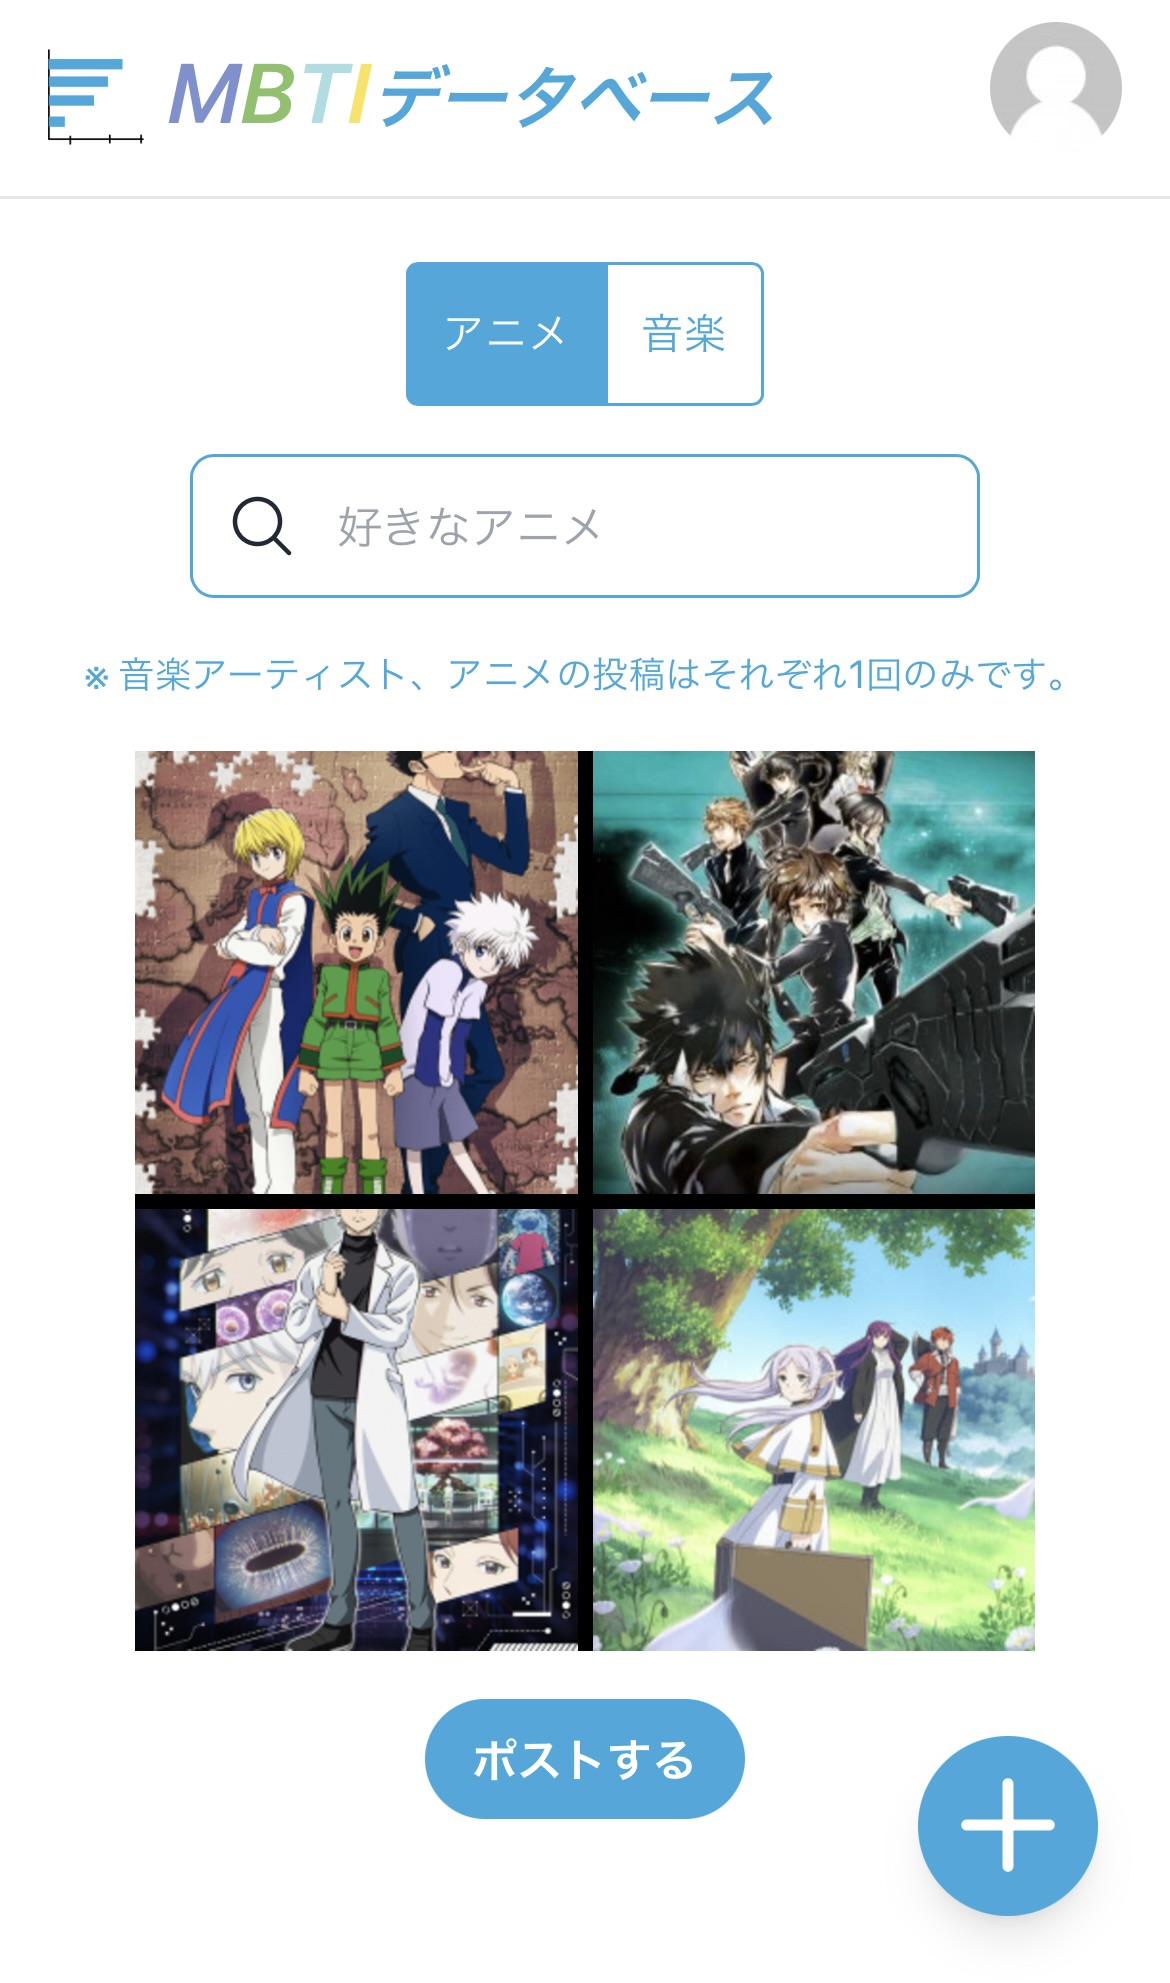
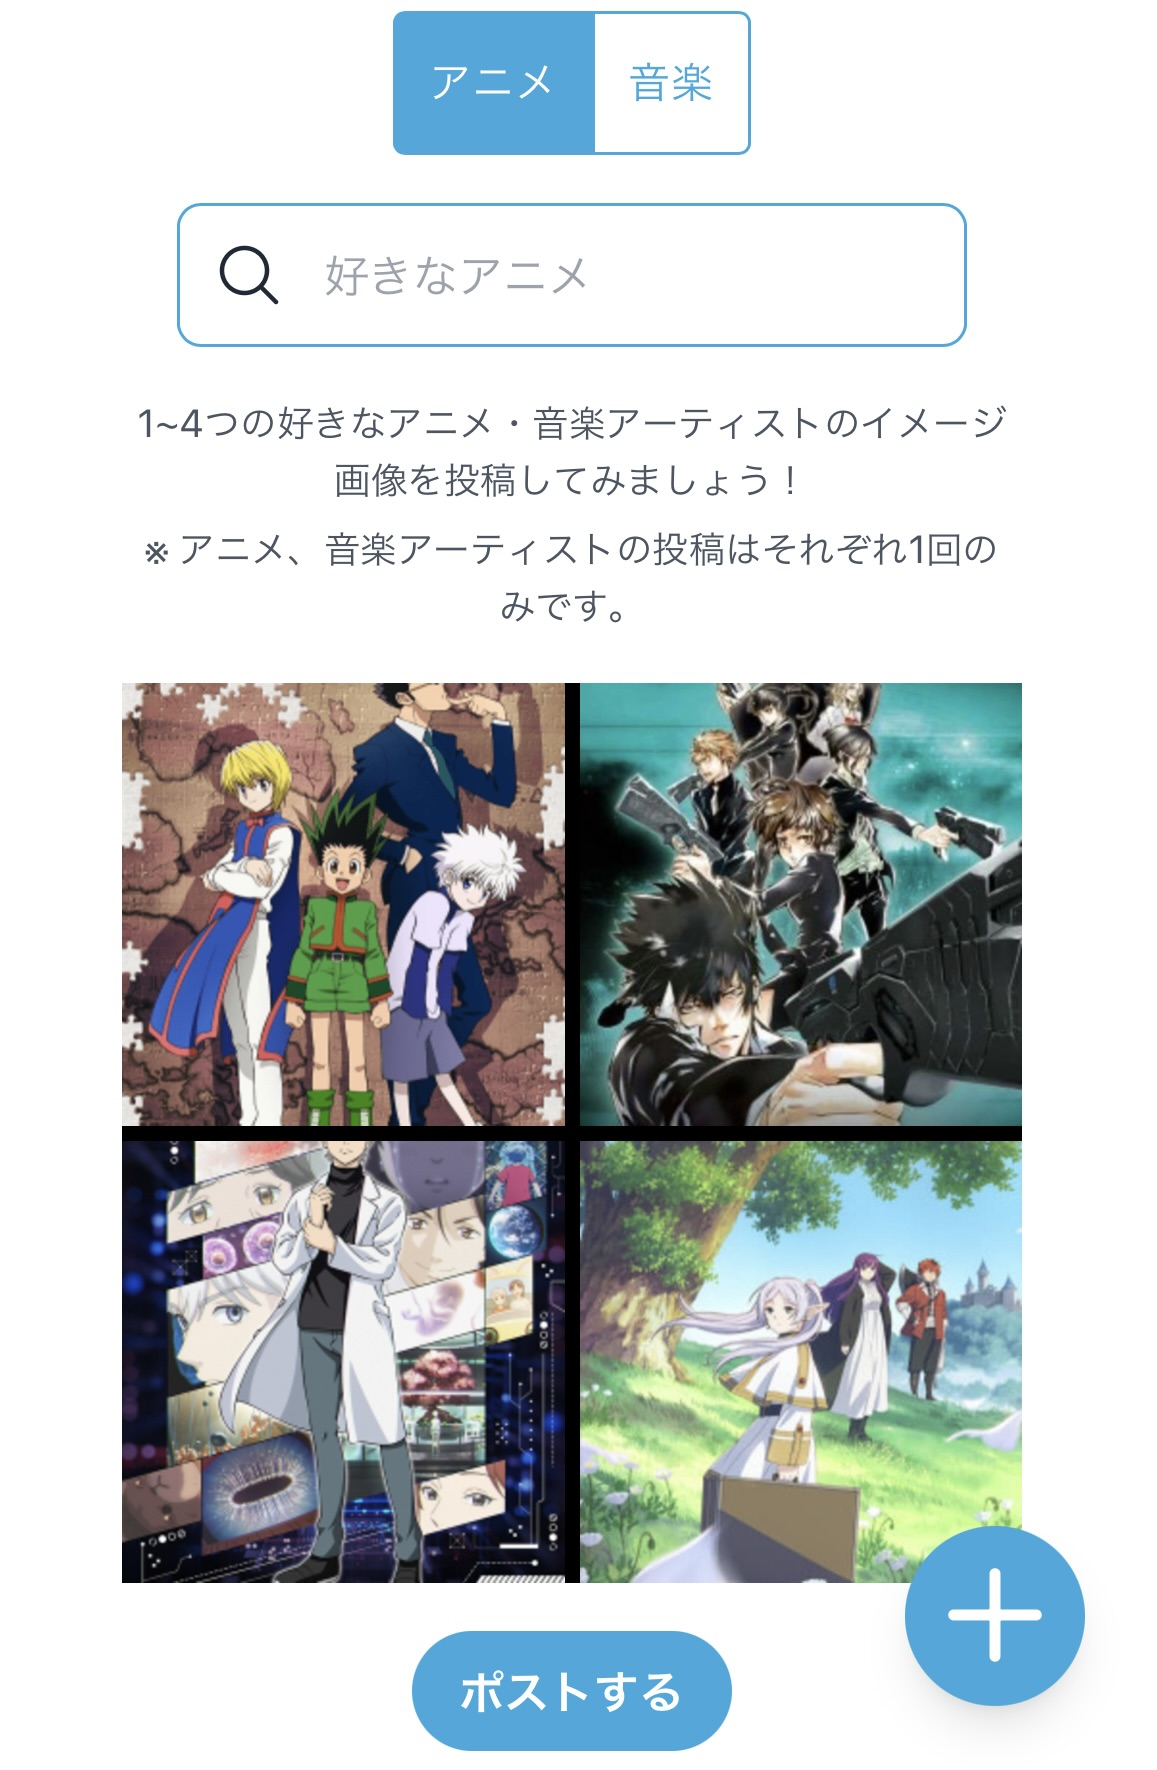
README変更前

diff --git a/frontend/src/components/SearchModal.jsx b/frontend/src/components/SearchModal.jsx
@@ -51,6 +51,9 @@ const SearchModal = ({
             {contentType === 'music' ? artist.name : anime.title.native}
           </h2>
         </div>
+        <p className="text-sm text-gray-600 px-4 md:px-8 mt-1">
+          ※イメージ画像を1クリックして追加してください。
+        </p>
         <div className="px-4 md:px-8 pb-8 flex justify-center">
           <img
             src={contentType === 'music' ? artist.images[0].url : anime.coverImage.large}

diff --git a/README.md b/README.md
@@ -6,7 +6,7 @@ MBTIタイプ診断をしたことのあるユーザーが、メディア(音楽
 [MBTIとは？](https://ja.wikipedia.org/wiki/MBTI)  
 
 ## このサービスへの思い・作りたい理由  
-音楽アーティスト### なぜMBTIタイプごとの好みをデータベース化するのか？
+### なぜMBTIタイプごとの好みをデータベース化するのか？
 インターネット上ではMBTIタイプごとの具体的な好みについて語る人が多く見られたのですが、あくまでその人たちの直観や肌感覚に依存するため、説得力が発信者の信用に基づいてしまうことに課題を感じました。
 そこで、実際にデータを取って確かめたいという思いから、このサービスを作成しました。
 
